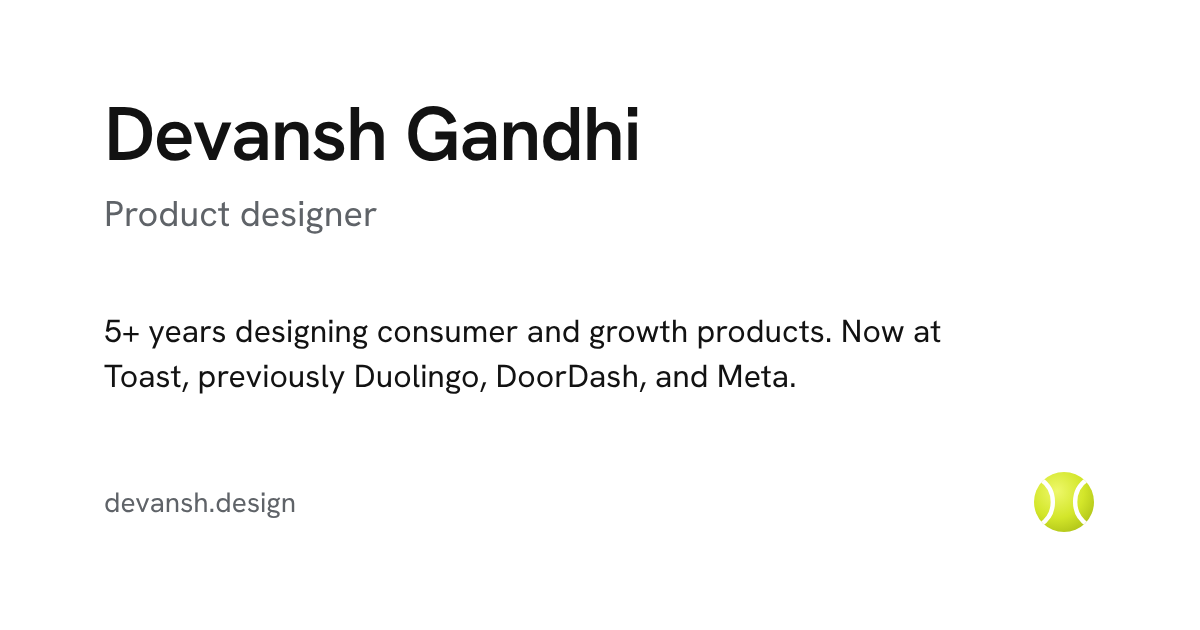
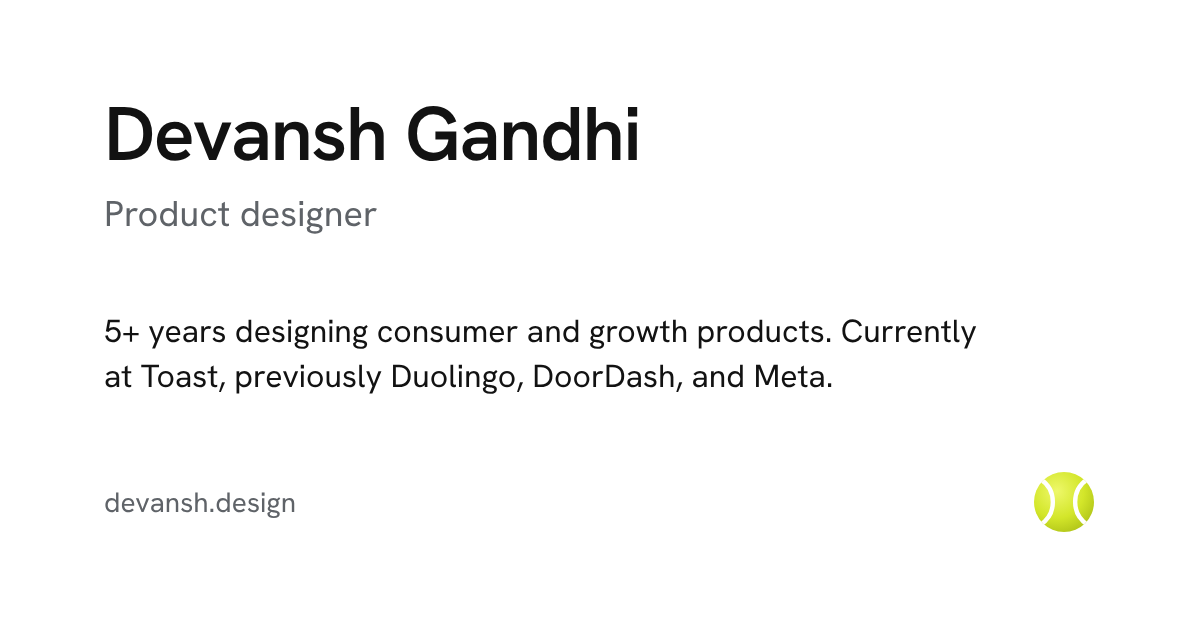
Say "Currently at Toast" instead of "Now at Toast"
Updated in the bio, the link-preview description, and the preview image.

Claude-Session: https://claude.ai/code/session_01L6Cc1x5TrNVTPiYhATRg52

Changed region(s): [[0.0925, 0.573, 0.6783, 0.6333], [0.6783, 0.5127, 0.8325, 0.5429]]

diff --git a/index.html b/index.html
@@ -15,7 +15,7 @@
   <meta property="og:type" content="website">
   <meta property="og:url" content="https://devansh.design/">
   <meta property="og:title" content="Devansh Gandhi — Product Designer">
-  <meta property="og:description" content="5+ years designing consumer and growth products. Now at Toast, previously Duolingo, DoorDash, and Meta.">
+  <meta property="og:description" content="5+ years designing consumer and growth products. Currently at Toast, previously Duolingo, DoorDash, and Meta.">
   <meta property="og:image" content="https://devansh.design/og-image.png">
   <meta property="og:image:width" content="1200">
   <meta property="og:image:height" content="630">
@@ -509,7 +509,7 @@
         </button>
       </div>
 
-      <p class="reveal" style="--i:1">5+ years designing consumer and growth products. Now at <span class="co" data-co="toast">Toast</span>, previously <span class="co" data-co="duolingo">Duolingo</span>, <span class="co" data-co="doordash">DoorDash</span>, and <span class="co" data-co="meta">Meta</span>. I care about education, small businesses, and immigration reform.</p>
+      <p class="reveal" style="--i:1">5+ years designing consumer and growth products. Currently at <span class="co" data-co="toast">Toast</span>, previously <span class="co" data-co="duolingo">Duolingo</span>, <span class="co" data-co="doordash">DoorDash</span>, and <span class="co" data-co="meta">Meta</span>. I care about education, small businesses, and immigration reform.</p>
 
       <nav class="links reveal" style="--i:2" aria-label="Contact">
         <button type="button" class="link copy-email" data-email="devanshgandhi42@gmail.com" aria-label="Copy email address">
